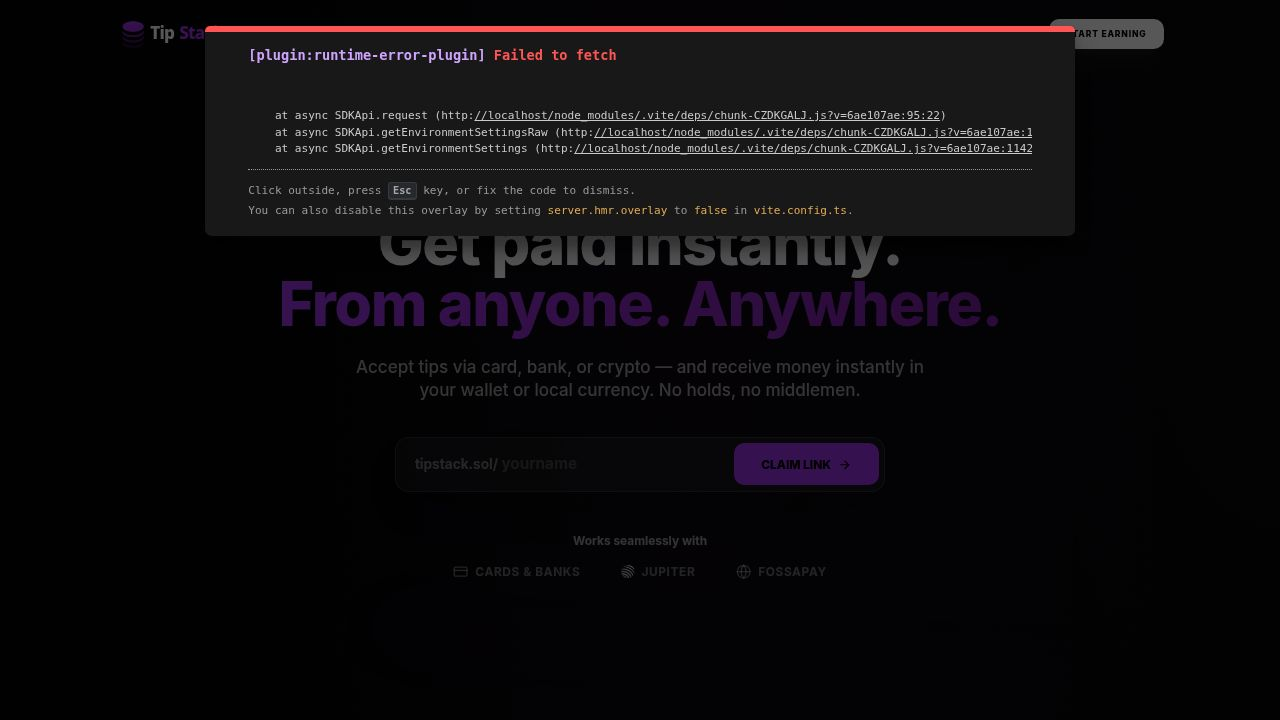
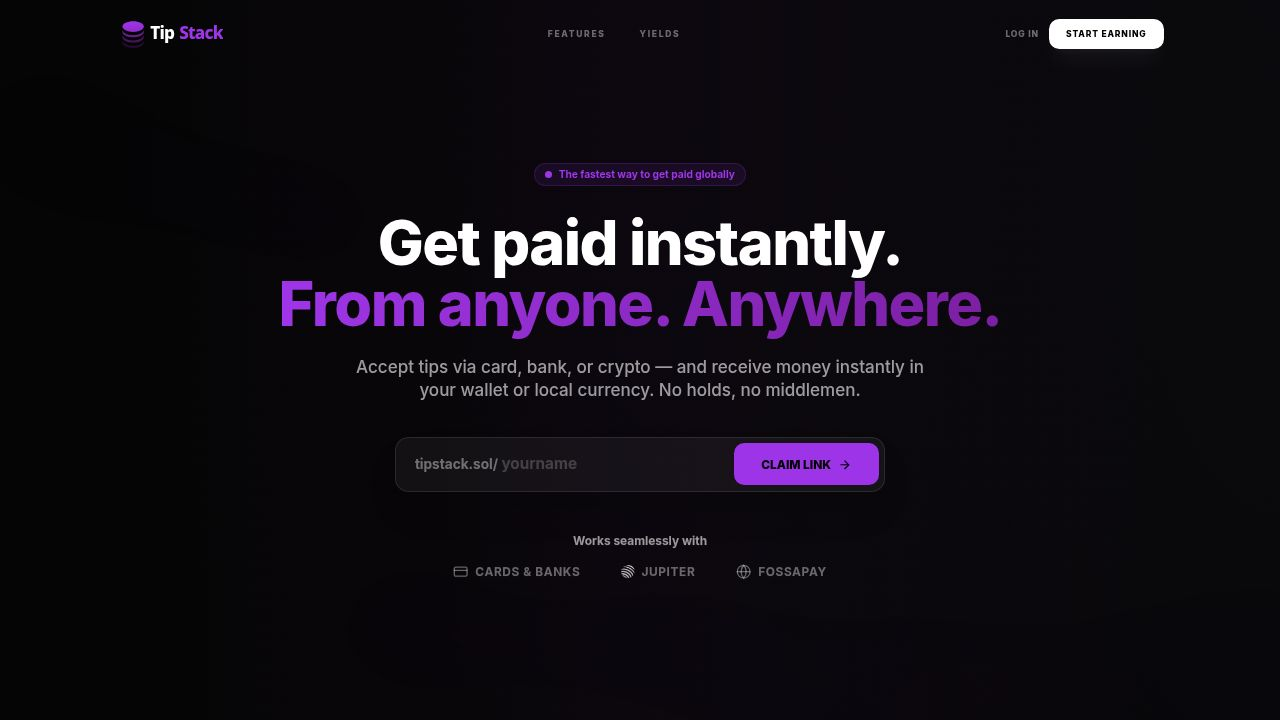
Fix website loading issues by resolving TypeScript errors and improving data handling
Address multiple TypeScript errors in the API server by adjusting tsconfig settings, adding type assertions for fetched data, and ensuring proper type casting for query parameters, ultimately resolving the site's loading failures.

Replit-Commit-Author: Agent
Replit-Commit-Session-Id: 8d3d7ee3-10c9-46fc-8679-6dbd6c7ac62c
Replit-Commit-Checkpoint-Type: full_checkpoint
Replit-Commit-Event-Id: d30f17bf-5434-4bbf-98f6-f6a2f8215104
Replit-Commit-Screenshot-Url: https://storage.googleapis.com/screenshot-production-us-central1/9ec73e6f-d2fe-4488-a947-0962922cba60/8d3d7ee3-10c9-46fc-8679-6dbd6c7ac62c/FEzzl6n

diff --git a/artifacts/api-server/src/lib/fossa.ts b/artifacts/api-server/src/lib/fossa.ts
@@ -135,12 +135,12 @@ export async function createCheckoutSession(amount: number, creatorId: string, m
       walletReference,
     }, idempotencyKey);
   } catch (error: any) {
-    logger.error('Fossa Pay: Error creating checkout session', { 
+    logger.error({ 
         error: error.message, 
         base: FOSSA_BASE_URL, 
         keyPrefix: FOSSA_API_KEY?.slice(0, 4) + '****',
         response: error.response?.data
-    });
+    }, 'Fossa Pay: Error creating checkout session');
     throw error;
   }
 }
@@ -180,7 +180,7 @@ export async function verifyWebhookSignature(payload: string, signature: string)
     const response = await client.post('/webhooks/verify', { payload, signature });
     return response.data.valid === true;
   } catch (error) {
-    logger.error('Fossa Pay: Error verifying webhook signature', { error });
+    logger.error({ error }, 'Fossa Pay: Error verifying webhook signature');
     return false;
   }
 }

diff --git a/artifacts/api-server/src/handlers/solana/jupiter/swap.ts b/artifacts/api-server/src/handlers/solana/jupiter/swap.ts
@@ -64,7 +64,7 @@ export default async function handler(req: VercelRequest, res: VercelResponse) {
         quoteUrl.searchParams.append('platformFeeBps', feeBps.toString());
     }
 
-    const quoteResponse = await fetch(quoteUrl.toString()).then((r) => r.json())
+    const quoteResponse: any = await fetch(quoteUrl.toString()).then((r) => r.json())
 
     if (quoteResponse.error) {
       return res.status(400).json({ error: quoteResponse.error })
@@ -101,7 +101,7 @@ export default async function handler(req: VercelRequest, res: VercelResponse) {
       ...(feeAccount && { feeAccount: feeAccount.toBase58() })
     }
 
-    const swapResponse = await fetch('https://quote-api.jup.ag/v6/swap', {
+    const swapResponse: any = await fetch('https://quote-api.jup.ag/v6/swap', {
       method: 'POST',
       headers: { 'Content-Type': 'application/json' },
       body: JSON.stringify(swapRequestBody)

diff --git a/artifacts/api-server/src/handlers/solana/profile/get.ts b/artifacts/api-server/src/handlers/solana/profile/get.ts
@@ -76,7 +76,7 @@ export default async function handler(req: VercelRequest, res: VercelResponse) {
   }
 
   try {
-    wallet = normalizeIdentifier(wallet)
+    wallet = normalizeIdentifier(wallet as string)
     let resolvedId = wallet;
     let isInternalId = false;
 

diff --git a/artifacts/api-server/src/lib/private-rpc.ts b/artifacts/api-server/src/lib/private-rpc.ts
@@ -178,7 +178,7 @@ export async function checkRpcHealth(rpcUrl: string): Promise<{
       }
     }
 
-    const data = await response.json()
+    const data: any = await response.json()
     if (data.result === 'ok') {
       return { healthy: true, latency }
     }

diff --git a/artifacts/api-server/src/types.d.ts b/artifacts/api-server/src/types.d.ts
@@ -1,0 +1,1 @@
+declare module '@kamino-finance/klend-sdk';